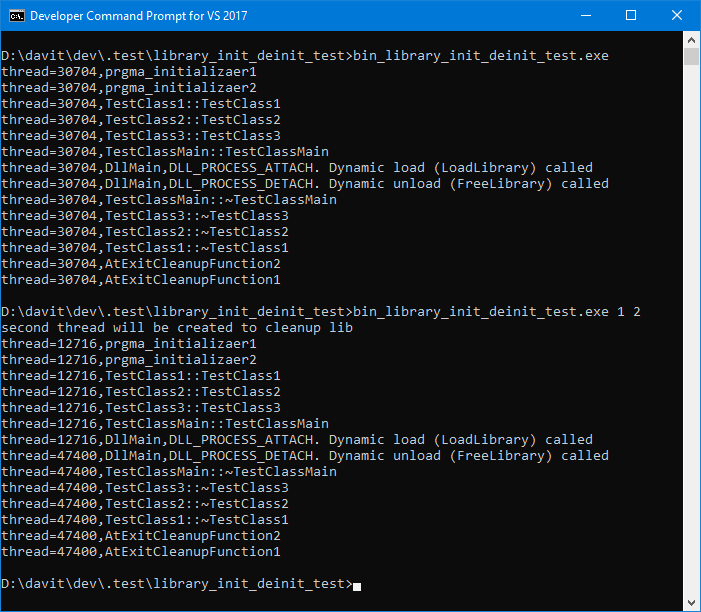
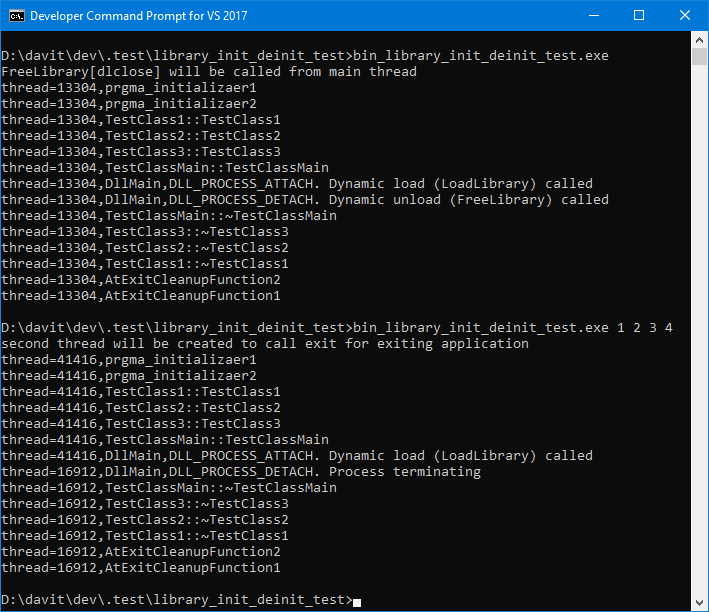
Added simple example code on README.md

Changed region(s): [[0.0, 0.0621, 0.9586, 0.9935], [0.03, 0.0, 0.3595, 0.031], [0.9586, 0.0, 0.9886, 0.031]]

diff --git a/main_library_init_deinit_test.cpp b/main_library_init_deinit_test.cpp
@@ -41,12 +41,21 @@ static THREAD_RET_AND_CALLING ExiterThreadFunction(void* lpThreadParameter);
 
 int main(int a_argc, char* [])
 {
-	if(a_argc>2){
-		::std::cout << "second thread will be created to cleanup lib\n";
+	if(a_argc<3){
+		if (a_argc == 1) {
+			::std::cout << "FreeLibrary[dlclose] will be called from main thread\n";
+		}
+		else {
+			::std::cout << "Return from main function will be called (no FreeLibrary or dlclose)\n";
+		}
 	}
-
-	if((a_argc==2)||(a_argc==4)){
-		::std::cout << "Exit will be called (no FreeLibrary or dlclose)\n";
+	else{
+		if(a_argc==3){
+			::std::cout << "second thread will be created to cleanup lib with FreeLibrary[dlclose]\n";
+		}
+		else{
+			::std::cout << "second thread will be created to call exit for exiting application\n";
+		}
 	}
 
 	s_libHandle = LoadLibraryA(LIBRARY_PATH);

diff --git a/README.md b/README.md
@@ -4,6 +4,7 @@ Example software to demonstrate specifics of initializing and cleaning libraries
 2 compilers are discussed here   
  1.  [microsoft](https://www.cprogramming.com/visual.html)  
  2.  [gcc](https://gcc.gnu.org/) (clang is compatible with gcc, but for time being clang tests are not done (planned to do))  
+  
 Two projects are compiled - library and executable that loads and unloads this library to check and demonstrate following:  
  1.  What is the sequence of initializations routines calling.  
       a) In the case of Microsoft Windows following should be considered  
@@ -50,6 +51,36 @@ Commands above will generate 2 files: dynamic library and executable to test thi
  1. If process exit triggered by not library loader thread, then initialization routine and cleanup routines will be called from different conexes  
     This is not taken into account always!!!  
  2. Initializing routines calling sequence will be listed below  
+     [1]  pragma_initializers # for windows some hack is needed to make this first  
+	 [2]  global/static constructors  
+	 [3]  only windows - DllMain  
 
 
 ![Init deinit sequence](https://github.com/davitkalantaryan/library_init_deinit_test/blob/master/docs/images/windows_output_sceenshot.png)  
+![sequence with 2 library source files](https://github.com/davitkalantaryan/library_init_deinit_test/blob/master/docs/images/windows_output_with_2_source_files_sceenshot.png)  
+
+## code example to insert code in the crt initialization section (look here microsoft [docu](https://docs.microsoft.com/en-us/cpp/c-runtime-library/crt-initialization?view=vs-2019))  
+```cpp  
+#pragma section(".CRT$XCB",read)  
+#define INITIALIZER_RAW_(f,p)										\  
+        static void f(void);										\  
+        __declspec(allocate(".CRT$XCB")) void (*f##_)(void) = f;	\  
+        __pragma(comment(linker,"/include:" p #f "_"))				\  
+        static void f(void)  
+  
+#if defined(_WIN64) || defined(_M_ARM)  
+#define PRAGMA_INITIALIZER(f) INITIALIZER_RAW_(f,"")  
+#else  
+#define PRAGMA_INITIALIZER(f) INITIALIZER_RAW_(f,"_")  
+#endif  
+static void AtExitCleanupFunction(void)
+{
+	printf("I'll be called during this code cleanup!\n");
+}
+
+PRAGMA_INITIALIZER(pragma_initializaer))
+{
+	printf("I'll be called during this code initialization and my undecorated name is %s!\n",__FUNCTION__); // undecorated name is 'pragma_initializaer'
+	atexit(AtExitCleanupFunction);
+}
+```  
